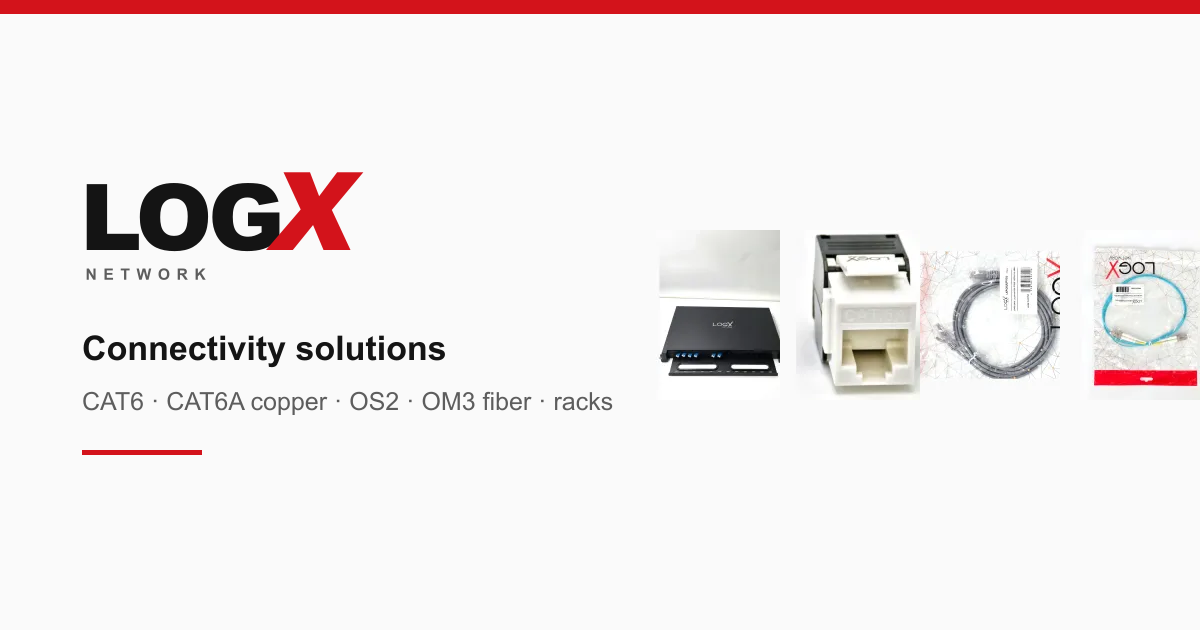
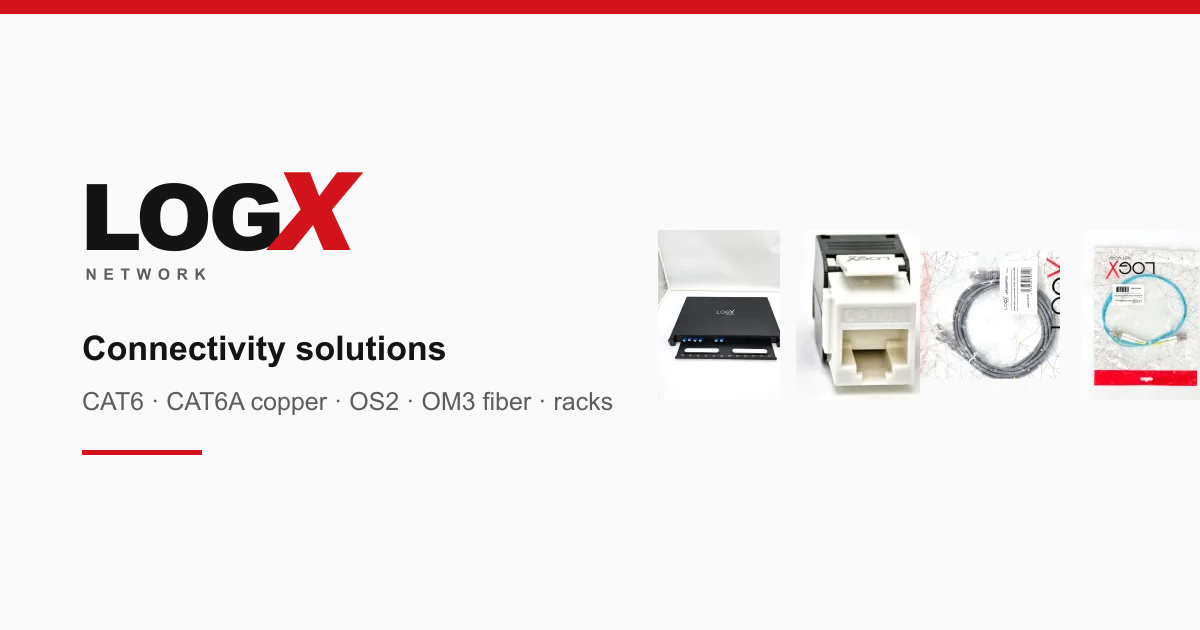
Remove LXFPRDLC06, which is not a real product
The 6 Port LC Duplex Fiber Patch Panel is in the price list but does not
exist, so it is excluded at the point of generation rather than deleted
from data/products.json, which the next import would have recreated.
scripts/import-products.mjs now carries an EXCLUDED map with the reason,
and logs what it skipped. The catalogue is 65 parts.

Its photo family is gone from photo-map.mjs and the image pipeline's own
orphan cleanup removed the six files. Two editorial references pointed at
its lead shot -- the home page hero collage and the default link-preview
card -- and now use the 24 port panel.

Also fixes a soft 404 this exposed: /products/<unknown-slug> rendered the
not-found page with a 200 status, so the removed product stayed
"reachable" and search engines could index any made-up slug under
/products/. The catalogue is fixed at build time, so the segment sets
dynamicParams = false and an ungenerated slug is now a real 404.

Changed region(s): [[0.5242, 0.3921, 0.6475, 0.6032], [0.6167, 0.3619, 0.6475, 0.3921]]

diff --git a/app/[locale]/products/[slug]/page.tsx b/app/[locale]/products/[slug]/page.tsx
@@ -12,6 +12,14 @@ type Props = {
   params: Promise<{locale: string; slug: string}>;
 };
 
+/**
+ * The catalogue is fixed at build time, so a slug that was not generated is a
+ * real 404 rather than a page to render on demand. Without this, an unknown
+ * slug renders the not-found page with a 200 status — a soft 404, which search
+ * engines may index.
+ */
+export const dynamicParams = false;
+
 export function generateStaticParams() {
   return locales.flatMap((locale) =>
     catalog.map((product) => ({locale, slug: product.slug}))

diff --git a/app/[locale]/page.tsx b/app/[locale]/page.tsx
@@ -7,7 +7,7 @@ import {catalog, categories, countByCategory, featuredProducts, type Locale} fro
 
 // Editorial picks: the shots that best represent each part of the range.
 const HERO_SHOTS = [
-  '/products/photos/fiber-panel-06-01.webp',
+  '/products/photos/fiber-panel-24-01.webp',
   '/products/photos/keystone-cat6a-01.webp',
   '/products/photos/cat6-cable-01.webp'
 ];
